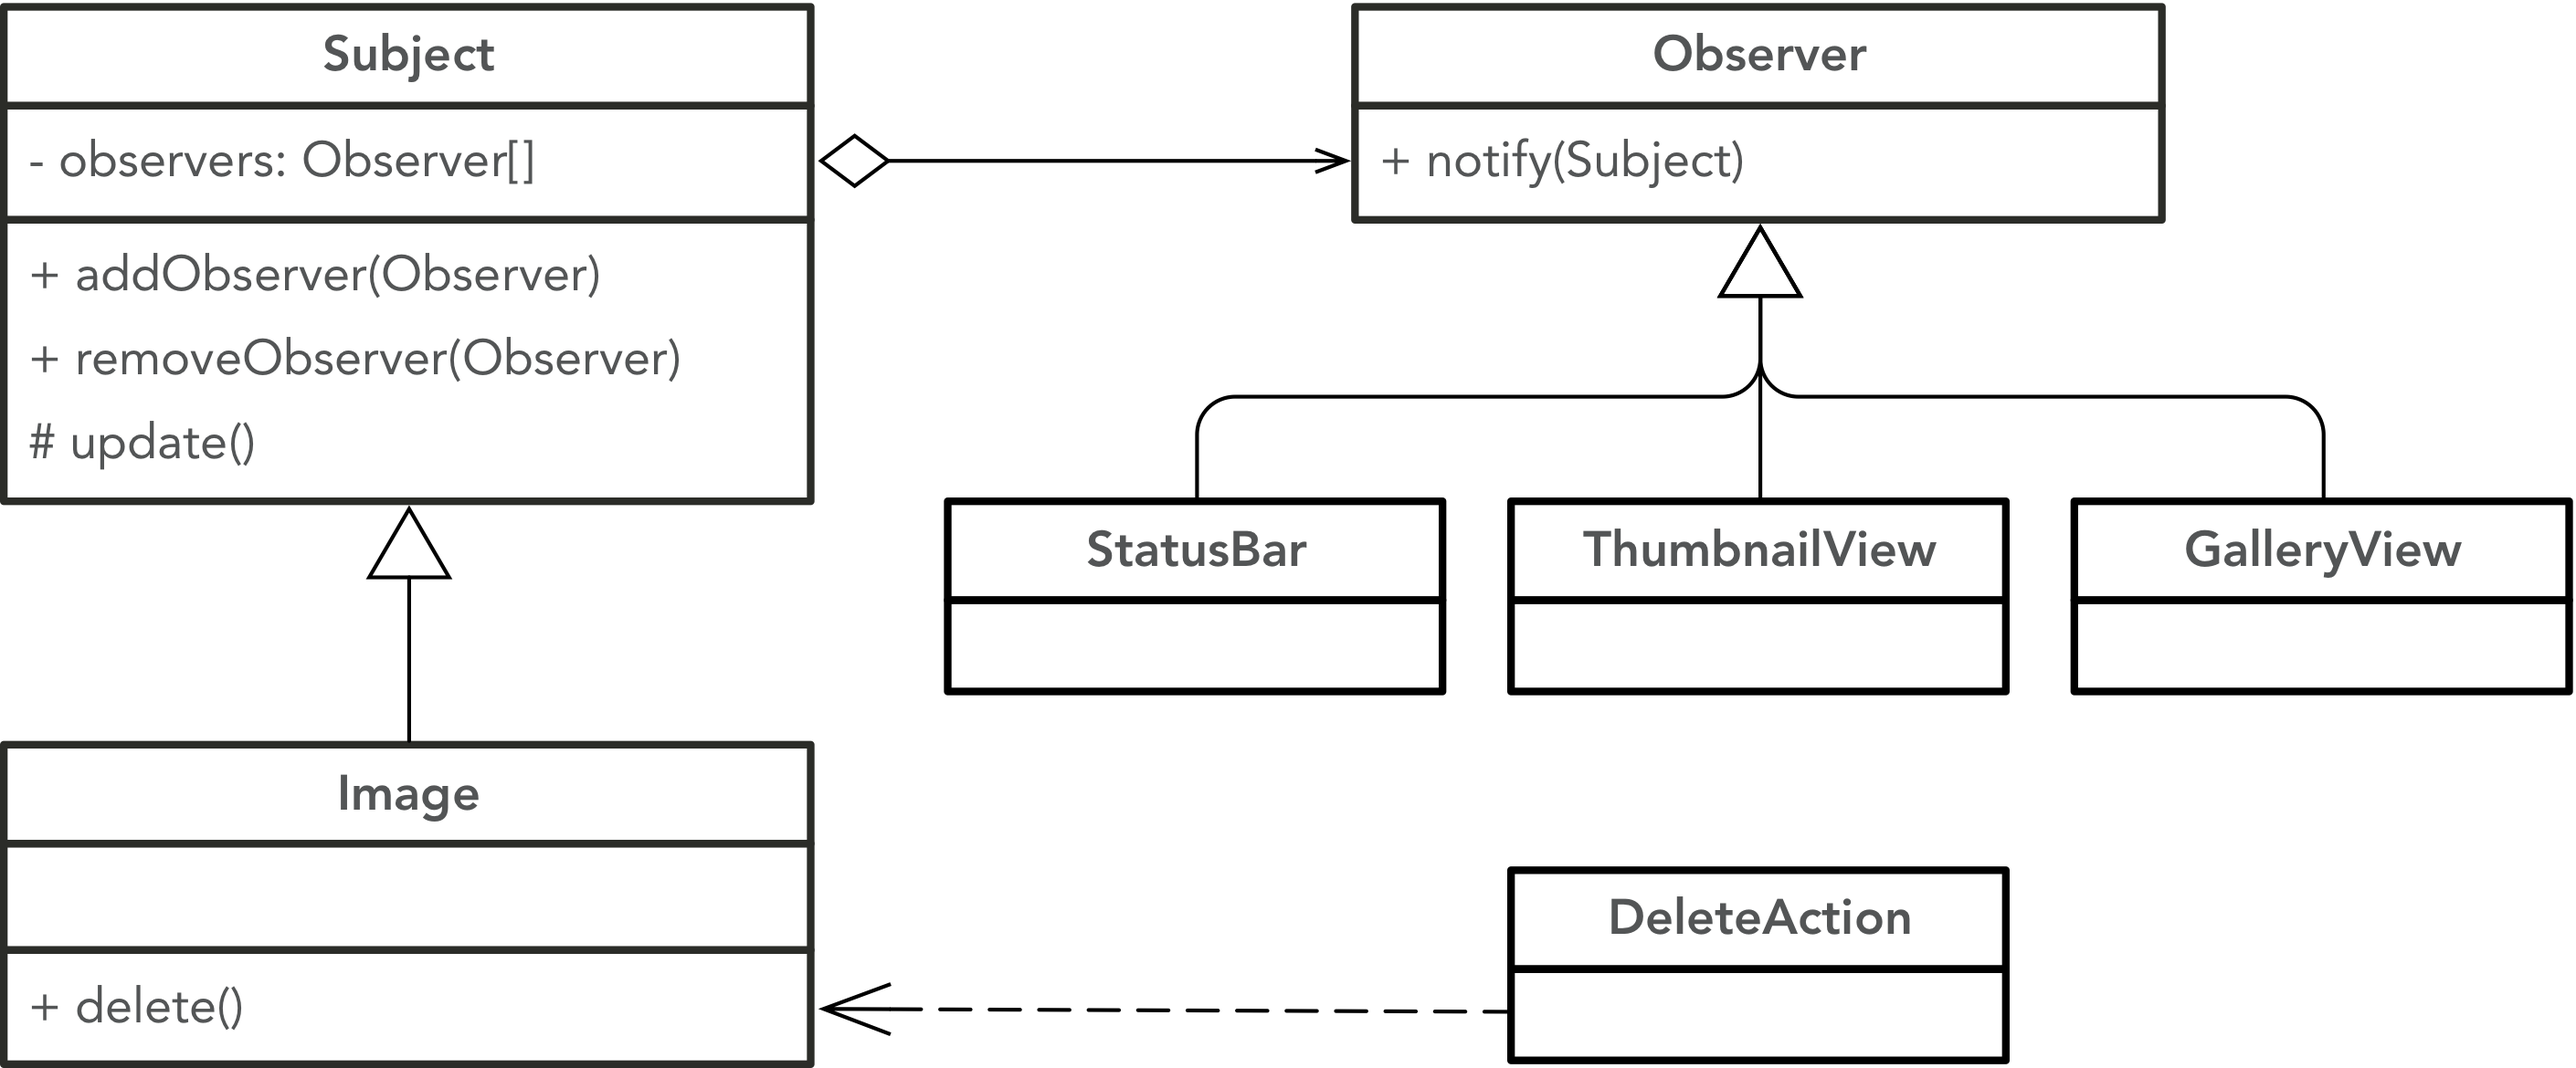
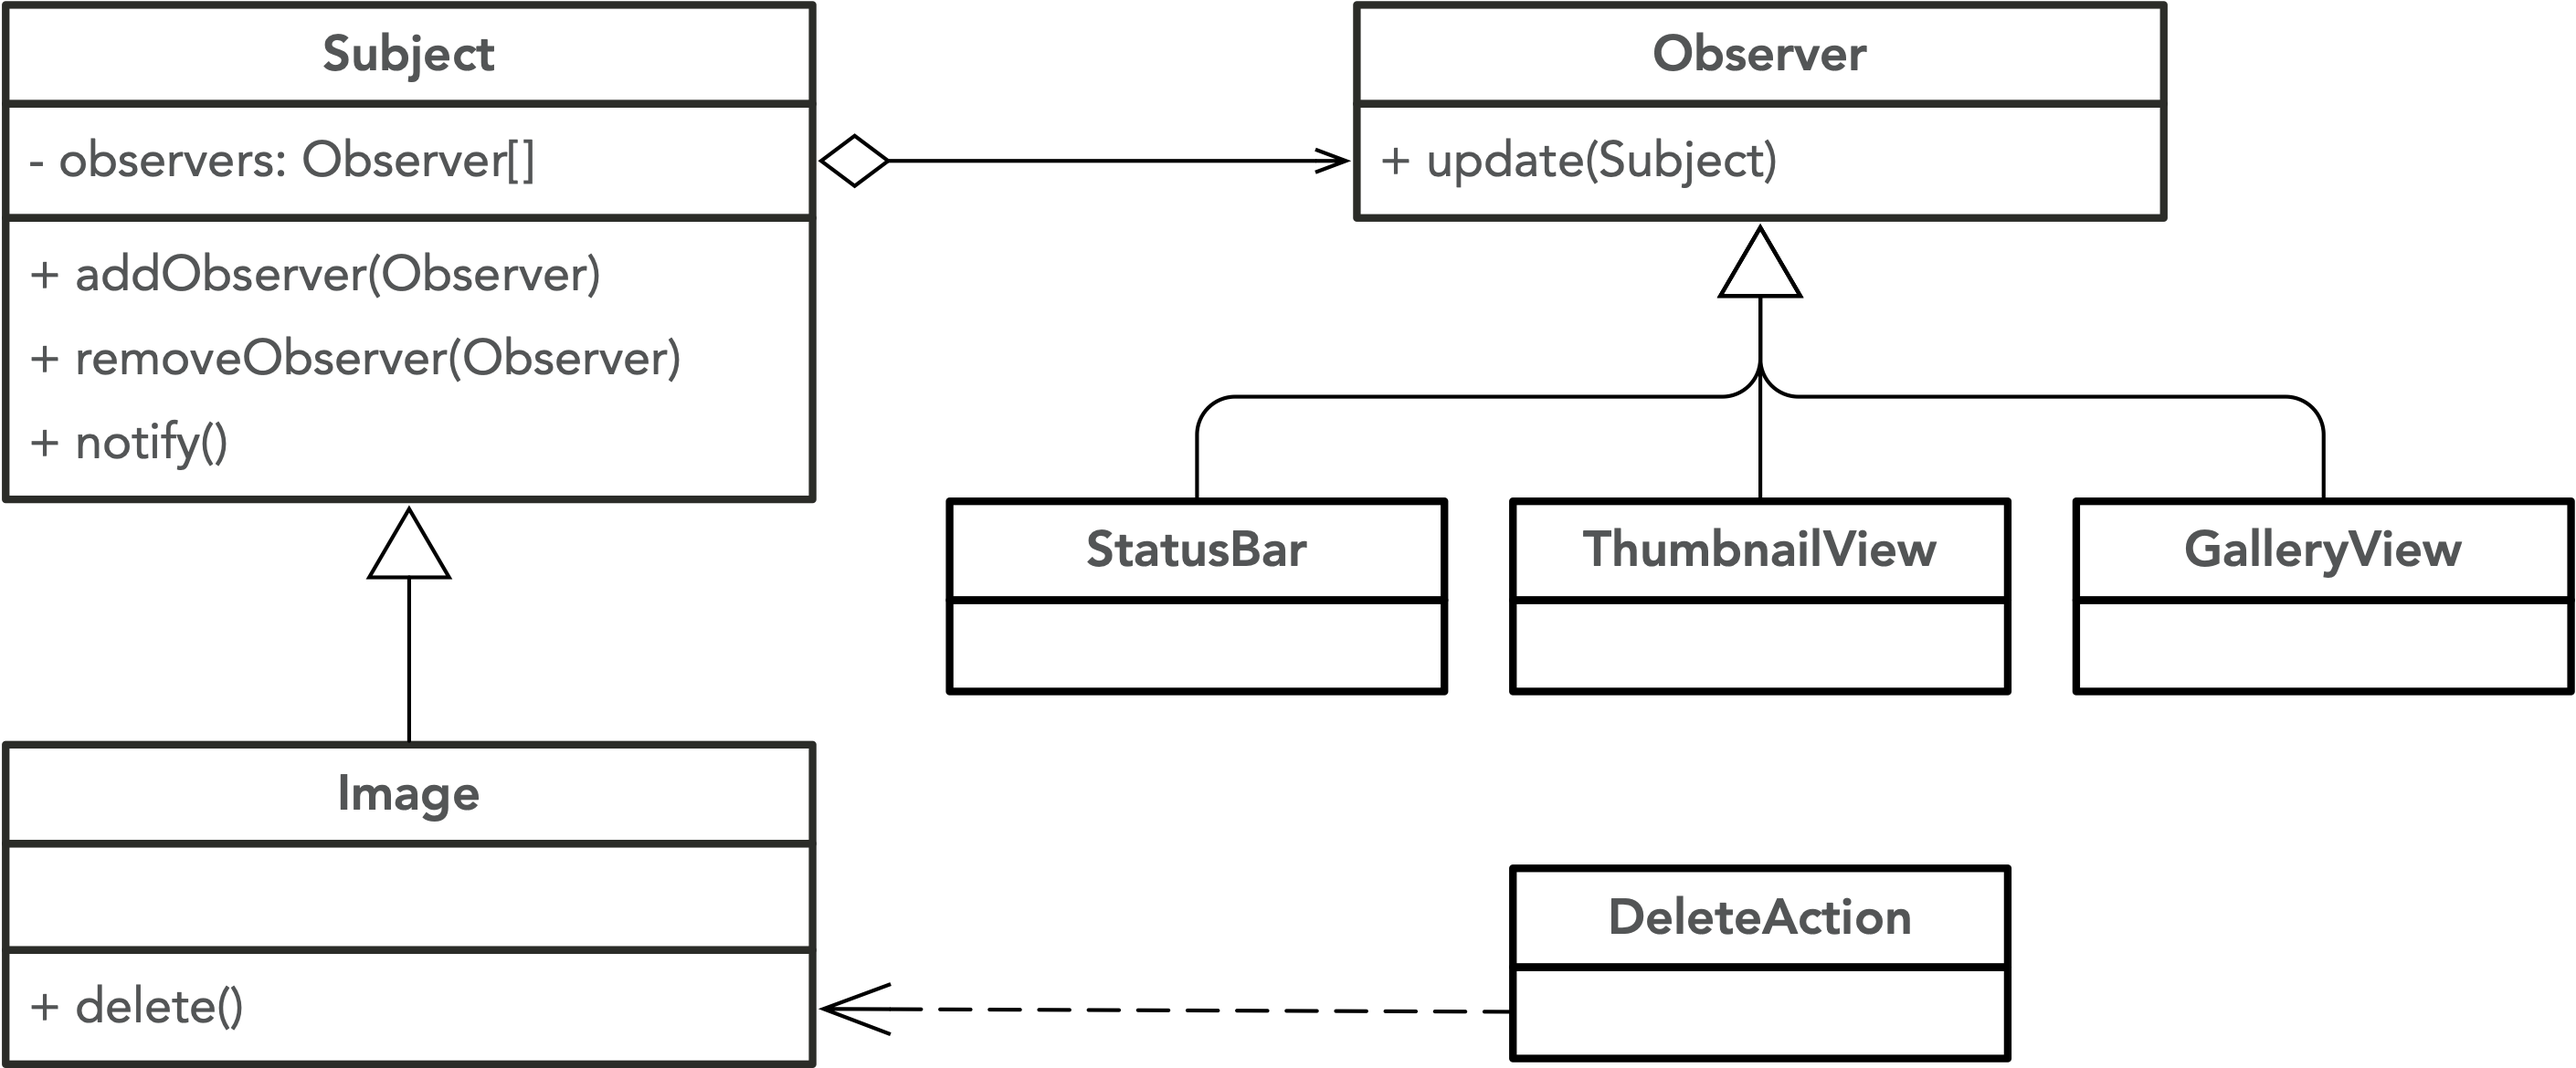
fix incorrect method names for observer

diff --git a/resources/readings/DesignPatterns.md b/resources/readings/DesignPatterns.md
@@ -11,7 +11,7 @@ When a user makes a change to a program, they expect the change to be consistent
 
 Ultimately a designer would like to decouple the state changing actions in the system from how they are reflected by the other components. The observer pattern enables this decoupling by leveraging dependency inversion to implement a mechanism commonly known as [inversion of control](https://martinfowler.com/articles/injection.html). While a traditional program calls the components it uses (e.g., your program calls methods in a library), inversion of control provides a means for a library to call _into_ your code. 
 
-For our image deletion example, `Image::delete()` calls `Observable::update()` which iterates through its `observers` list and calls `notify(this)` on all of them so they know that an object they are interested in has changed state. Each `Observer` can then react accordingly. This design means that the `Observable` classes are not coupled to any concrete `Observer` objects, making it so new `Observer` classes can be added to the system at any time. The system is also dynamically efficient because `Observer` objects can be dynamically added (and removed) from observable objects as needed by the system. 
+For our image deletion example, `Image::delete()` calls `Subject::notify()` which iterates through its `observers` list and calls `update(this)` on all of them so they know that an object they are interested in has changed state. Each `Observer` can then react accordingly. This design means that the `Observable` classes are not coupled to any concrete `Observer` objects, making it so new `Observer` classes can be added to the system at any time. The system is also dynamically efficient because `Observer` objects can be dynamically added (and removed) from observable objects as needed by the system. 
 
 In this system, many different model elements would likely be `Observable`: PDF files might render differently in the gallery view when they are selected (to allow access to different pages of the document) or folders might give some hint about their contents in their thumbnail representation. The value of the observer pattern becomes clearer as the number of observable and observing classes grows.
 
